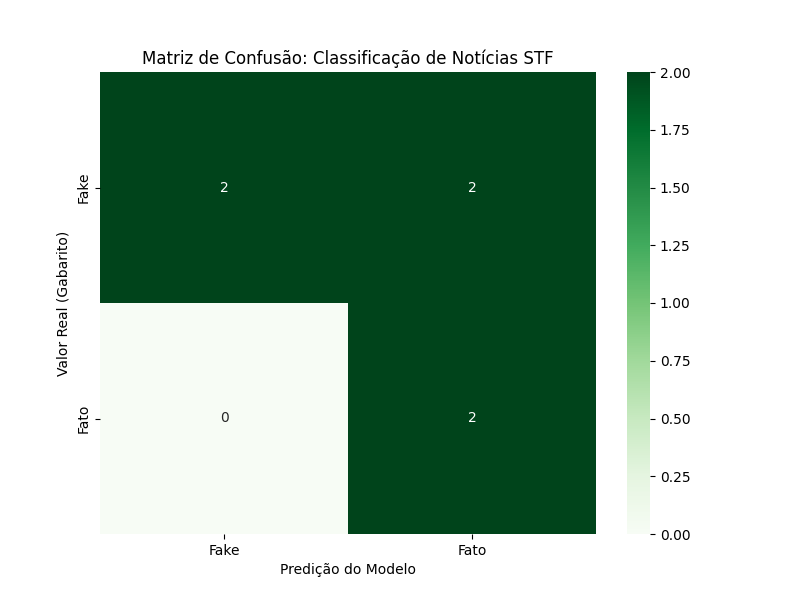
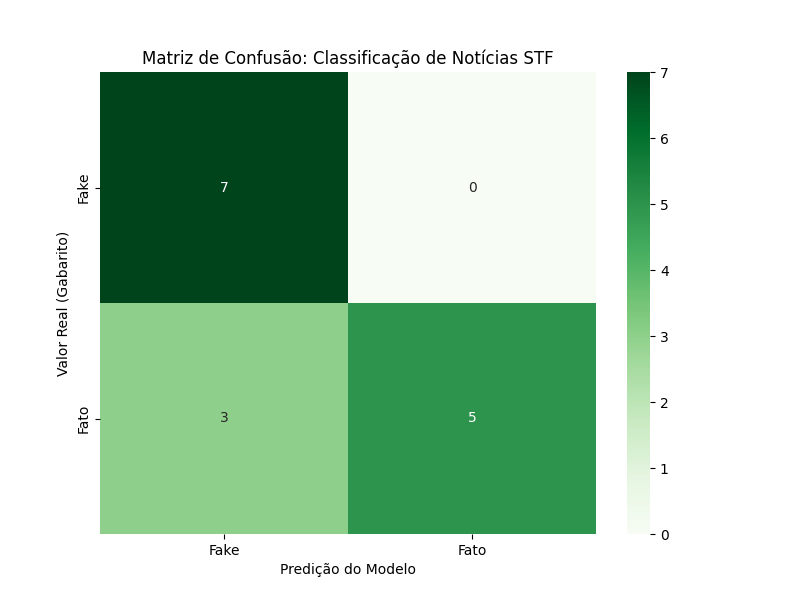
feat: enhance accuracy of model

diff --git a/modelo_stf_naive_bayes.py b/modelo_stf_naive_bayes.py
@@ -22,7 +22,7 @@ def preprocess_text(text):
     return text
 
 # 1. Carregar a base de dados do STF
-df = pd.read_csv('base_dados_stf_com_links.csv')
+df = pd.read_csv('base_dados_stf.csv')
 
 # 2. Aplicar Pré-processamento
 df['text_clean'] = df['text'].apply(preprocess_text)

diff --git a/interface_noticias.py b/interface_noticias.py
@@ -20,7 +20,7 @@ def preprocess_text(text):
     return text
 
 # Treino do modelo
-df = pd.read_csv('base_dados_stf_com_links.csv')
+df = pd.read_csv('base_dados_stf.csv')
 df['text_clean'] = df['text'].apply(preprocess_text)
 
 vectorizer = TfidfVectorizer()
